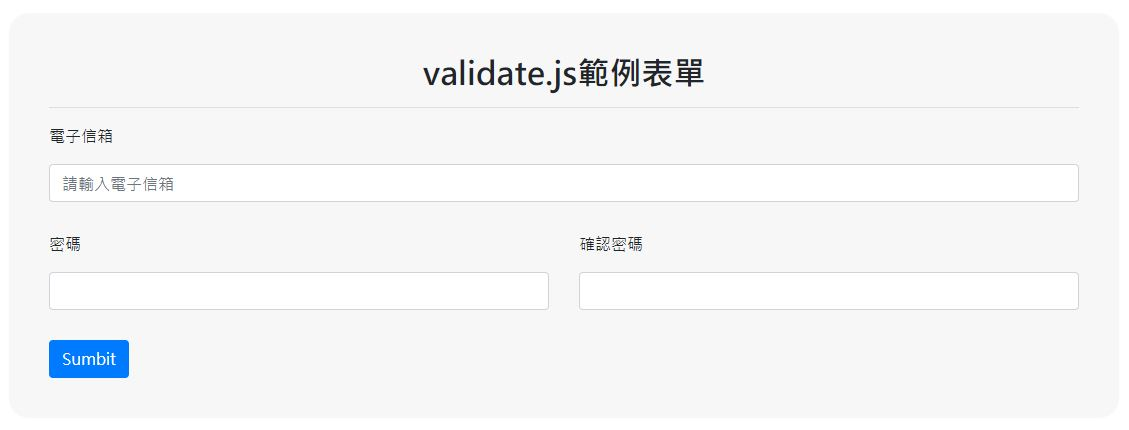
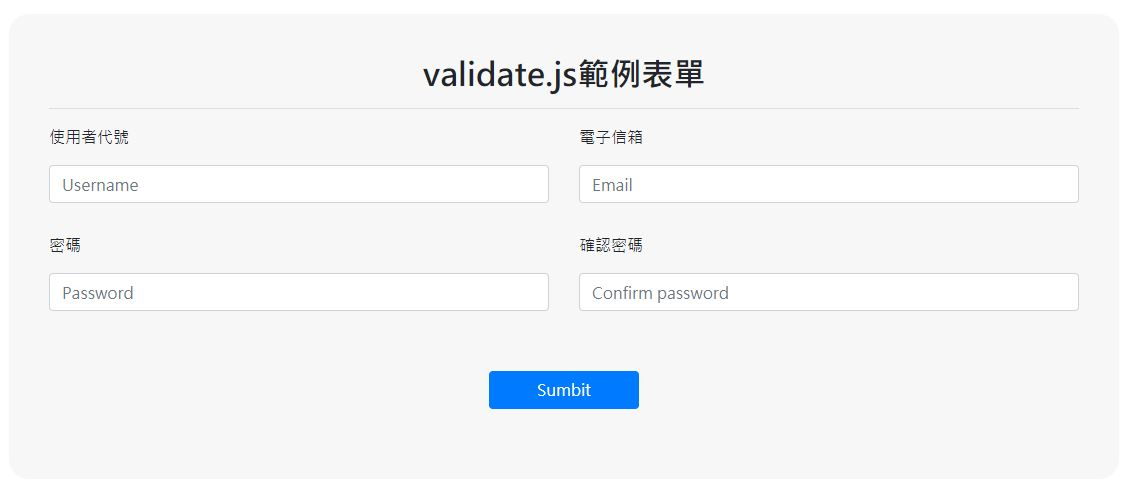
[create] notes

diff --git a/index.html b/index.html
@@ -17,24 +17,32 @@
         <form id="form-content">
             <h2>validate.js範例表單</h2>
             <hr>
+            
             <div class="row">
-                <div class="col-md-12">
+                <div class="col-md-6">
+                    <label for="username" class="form-group">使用者代號</label>
+                    <input type="text" class="form-control" id="username" name="username" placeholder="Username">
+                </div>
+                <div class="col-md-6">
                     <label for="email" class="form-group">電子信箱</label>
-                    <input type="text" class="form-control" id="email" name="email" placeholder="請輸入電子信箱">
+                    <input type="text" class="form-control" id="email" name="email" placeholder="Email">
                 </div>
             </div>
-
+            
             <div class="row">
                 <div class="col-md-6">
                     <label for="password" class="form-group">密碼</label>
-                    <input type="password" class="form-control" id="password" name="password">
+                    <input type="password" class="form-control" id="password" name="password" placeholder="Password">
                 </div>
                 <div class="col-md-6">
                     <label for="password-again" class="form-group">確認密碼</label>
-                    <input type="password" class="form-control" id="password-again" name="password-again">
+                    <input type="password" class="form-control" id="password-again" name="password-again"
+                        placeholder="Confirm password">
                 </div>
             </div>
-            <button type="submit" class="btn btn-primary">Sumbit</button>
+            <div class="row justify-content-center">
+                <button type="submit" class="btn btn-primary">Sumbit</button>
+            </div>
         </form>
     </div>
 

diff --git a/main.js b/main.js
@@ -1,16 +1,27 @@
 $(function () {
   $('#form-content').validate({
-    submitHandler: function () {
-      alert("D");
-    },
     rules: {
-      'email': { required: true },
-      'password': { required: true, number: true, digits: true, rangelength: [6, 12] },
-      'password-again': { required: true, equalTo: '#password' }
+      'username': {
+        required: true,
+      },
+      'email': {
+        email: true
+      },
+      'password': {
+        required: true,
+        number: true,
+        digits: true,
+        rangelength: [6, 12]
+      },
+      'password-again': {
+        required: true,
+        equalTo: '#password'
+      },
     },
     messages: {
-      'email': { required: '此欄位為必填' },
-      'password': { required: '此欄位為必填', number: '請輸入數字', digits: '請輸入數字', rangelength: '請輸入長度為6-12位數的密碼' },
+      'username': { required: '此欄位為必填' },
+      'email': { emali: '請輸入正確的E-mail格式' },
+      'password': { required: '此欄位為必填', number: '請輸入數字', digits: '請輸入數字', rangelength: '請輸入長度為{0}-{1}位數的密碼' },
       'password-again': { required: '此欄位為必填', equalTo: "輸入值必須和密碼相同" }
     }
   })

diff --git a/style.css b/style.css
@@ -3,3 +3,6 @@
 #form-content > h2 { text-align: center; font-weight: 600; }
 #form-content .row{ margin-bottom: 30px; }
 
+.error{ color: red; }
+
+button{ margin-top: 30px; width: 150px; }

diff --git a/README.md b/README.md
@@ -1,5 +1,5 @@
 # validate.js
-用來驗證表單的JS函式庫。
+使用JQuery Validate驗證表單資料。
 
 ## 安裝
 ### CDN
@@ -8,35 +8,49 @@
 <script src="https://code.jquery.com/jquery-3.5.1.slim.min.js"</script>
 <script src="https://cdnjs.cloudflare.com/ajax/libs/jquery-validate/1.19.1/jquery.validate.min.js"></script>
 ```
-首先在HTML中寫入畫面要呈現的表單欄位，這裡的CSS套用`Bootstrap4`。
+首先在HTML中寫入畫面要呈現的表單欄位，這裡的CSS套用bootstrap4。
 ```
 // index.html
 
-<form id="form-content">
-    <h2>validate.js範例表單</h2>
-    <hr>
-    <div class="row">
-        <div class="col-md-12">
-            <label for="email" class="form-group">電子信箱</label>
-            <input type="text" class="form-control" id="email" name="email" placeholder="請輸入電子信箱">
+<div class="container">
+    <form id="form-content">
+        <h2>validate.js範例表單</h2>
+        <hr>
+            
+        <div class="row">
+            <div class="col-md-6">
+                <label for="username" class="form-group">使用者代號</label>
+                <input type="text" class="form-control" id="username" name="username" placeholder="Username">
+            </div>
+            <div class="col-md-6">
+                <label for="email" class="form-group">電子信箱</label>
+                <input type="text" class="form-control" id="email" name="email" placeholder="Email">
+            </div>
         </div>
-    </div>
+            
+        <div class="row">
+            <div class="col-md-6">
+                <label for="password" class="form-group">密碼</label>
+                <input type="password" class="form-control" id="password" name="password" placeholder="Password">
+            </div>
+            <div class="col-md-6">
+                <label for="password-again" class="form-group">確認密碼</label>
+                <input type="password" class="form-control" id="password-again" name="password-again"
+                        placeholder="Confirm password">
+            </div>
+        </div>
 
-    <div class="row">
-        <div class="col-md-6">
-            <label for="password" class="form-group">密碼</label>
-            <input type="password" class="form-control" id="password" name="password">
+        <div class="row justify-content-center">
+            <button type="submit" class="btn btn-primary">Sumbit</button>
         </div>
-        <div class="col-md-6">
-            <label for="password-again" class="form-group">確認密碼</label>
-            <input type="password" class="form-control" id="password-again" name="password-again">
-        </div>
-    </div>
-    <button type="submit" class="btn btn-primary">Sumbit</button>
-</form>
+    </form>
+</div>
 ```
-![](https://github.com/PeggyHsiao/vliadate.js/blob/master/images/view.JPG)
-`label的for值`要和`input的id值`對應，而`input的name`則是要和.js檔的名稱相同，反正大家都取一樣的也無所謂。
+`label`的`for`值要對應`input`的`id值`，而`input`的`name`則是要和.js檔的名稱相同，反正大家都取一樣的也無所謂。
+
+現在開啟畫面畫長成這樣，簡單的四個欄位分別是使用者代號、電子信箱、密碼、確認密碼。  
+![](https://github.com/PeggyHsiao/vliadate.js/blob/master/images/view.JPG)  
+再來就是在js檔案中設定欄位的驗證資料了。
 ```
 // main.js
 
@@ -51,3 +65,57 @@ $(function () {
   })
 });
 ```
+寫法為`$('form的id/class名稱').validate({...})`，其中rules和messages為固定的名稱，用途如下：
+- rules：用來存放驗證規則，每個`input`為一個物件
+- messages：用來放如果驗證失敗要顯示的文字，每個`input`為一個物件  
+`rules`的屬性有很多，可以到[菜鳥教程](https://www.runoob.com/jquery/jquery-plugin-validate.html)看。  
+
+Username在這裡設定為必填欄位。如果沒輸入就按下submit則會跳出提示訊息。
+```
+rules: {
+    'username': {
+        required: true,
+    },
+},
+messages: {
+    'username': { required: '此欄位為必填' },
+}
+```
+如果要驗證Email的時候，可以在`roules`裡面加上`email:true`就會自動檢查是否符合電子信箱的格式。  
+```
+rules: {
+    'email': {
+        email: true,
+    },
+},
+messages: {
+    'email': { email: '請輸入正確的E-mail格式' },
+}
+```
+`number:true`代表只能輸入數值；`digits:true`代表只能輸入正整數；另外利用`rangelength`可以限制輸入的字數長度，使用陣列存放。
+```
+rules: {
+    'password': {
+        required: true,
+        number: true,
+        digits: true,
+        rangelength: [6, 12]
+    },
+},
+messages: {
+    'password': { required: '此欄位為必填', number: '請輸入數字', digits: '請輸入數字', rangelength: '請輸入長度為{0}-{1}位數的密碼' },
+}
+```
+其中感覺比較好用的是確認密碼功能，可以利用`equalTo:'#password'`來驗證輸入的資料是否和`id='password'`一樣。
+```
+rules: {
+    'password-again': {
+        required: true,
+        equalTo: '#password'
+    },
+},
+messages: {
+    'password-again': { required: '此欄位為必填', equalTo: "輸入值必須和密碼相同" }
+}
+```
+把以上的`rules`和`messages`結合在`main.js`，並嵌入至`index.html`，就可以製作簡單的資料驗證了。
